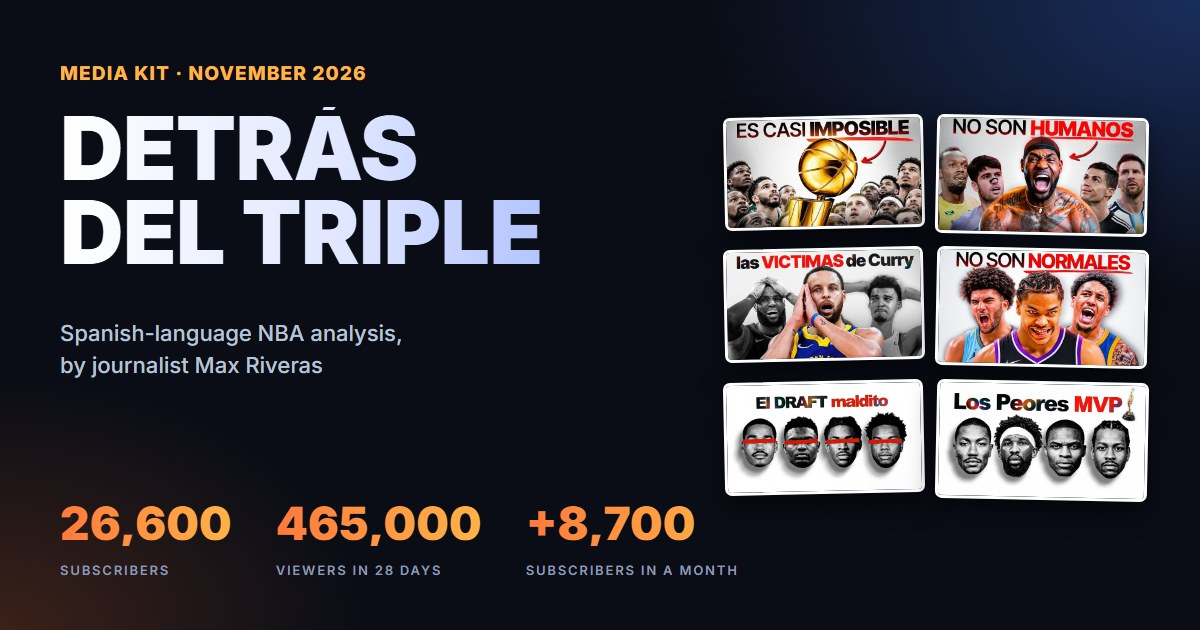
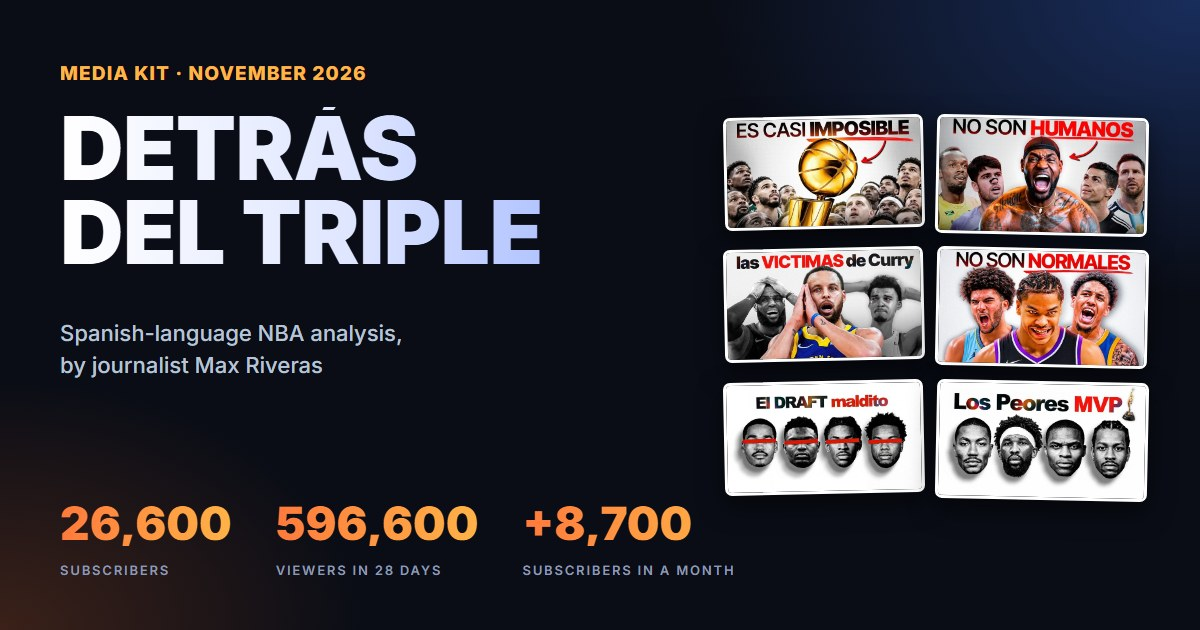
chore(mediakit): panel del 24 nov, 596.600 personas en 28 dias, 287.000 que repiten y perfil al dia

Changed region(s): [[0.4317, 0.7841, 0.6167, 0.9349], [0.2158, 0.7841, 0.4008, 0.8746]]

diff --git a/mediakit-definitivo/index.html b/mediakit-definitivo/index.html
@@ -5,7 +5,7 @@
     <meta charset="UTF-8">
     <meta name="viewport" content="width=device-width, initial-scale=1.0">
     <meta name="description"
-        content="Media kit de Detrás del Triple, análisis periodístico de la NBA en español por Max Riveras. En YouTube: 26.600 suscriptores, 465.000 personas distintas en 28 días y 245.409 horas vistas desde octubre de 2025. El 95,8% de las vistas de los vídeos largos llega desde 21 países de habla hispana.">
+        content="Media kit de Detrás del Triple, análisis periodístico de la NBA en español por Max Riveras. En YouTube: 26.600 suscriptores, 596.600 personas distintas en 28 días y 245.409 horas vistas desde octubre de 2025. El 95,8% de las vistas de los vídeos largos llega desde 21 países de habla hispana.">
     <meta name="keywords"
         content="NBA, creador de contenido, YouTube, influencer deportivo, Max Riveras, Detrásdeltriple, patrocinios">
     <meta name="author" content="Max Riveras">
@@ -21,11 +21,11 @@
     <meta property="og:url" content="https://maxriveras.com/mediakit-definitivo/">
     <meta property="og:title" content="Detrás del Triple · Media kit | Análisis NBA en español">
     <meta property="og:description"
-        content="Análisis NBA en español: 465.000 personas en 28 días, 245.409 horas vistas en YouTube desde octubre de 2025 y +8.700 suscriptores en un mes. Abierto a colaboraciones con marcas.">
+        content="Análisis NBA en español: 596.600 personas en 28 días, 245.409 horas vistas en YouTube desde octubre de 2025 y +8.700 suscriptores en un mes. Abierto a colaboraciones con marcas.">
     <meta property="og:image" content="https://maxriveras.com/mediakit-definitivo/fotos/og-mediakit.jpg">
     <meta property="og:image:width" content="1200">
     <meta property="og:image:height" content="630">
-    <meta property="og:image:alt" content="Detrás del Triple, media kit de noviembre de 2026: 26.600 suscriptores, 465.000 personas en 28 días y +8.700 suscriptores en un mes">
+    <meta property="og:image:alt" content="Detrás del Triple, media kit de noviembre de 2026: 26.600 suscriptores, 596.600 personas en 28 días y +8.700 suscriptores en un mes">
     <meta property="og:locale" content="es_ES">
     <meta property="og:locale:alternate" content="en_US">
 
@@ -37,7 +37,7 @@
     <meta property="twitter:card" content="summary_large_image">
     <meta property="twitter:url" content="https://maxriveras.com/mediakit-definitivo/">
     <meta property="twitter:title" content="Detrás del Triple · Media kit | Análisis NBA en español">
-    <meta property="twitter:description" content="Análisis NBA en español: 465.000 personas en 28 días y 245.409 horas vistas en YouTube desde octubre de 2025.">
+    <meta property="twitter:description" content="Análisis NBA en español: 596.600 personas en 28 días y 245.409 horas vistas en YouTube desde octubre de 2025.">
     <meta property="twitter:image" content="https://maxriveras.com/mediakit-definitivo/fotos/og-mediakit.jpg">
 
     <title>Detrás del Triple · Media kit | Análisis NBA en español por Max Riveras</title>
@@ -67,7 +67,7 @@
                         historia, para una audiencia que no pasa de largo.
                     </p>
                     <p class="hero-momentum">Y en plena subida: <strong>+8.700 suscriptores</strong> en un mes,
-                        <strong>465.000 personas</strong> en 28 días (casi el triple que hace un mes) y un vídeo con
+                        <strong>596.600 personas</strong> en 28 días (más del triple que hace tres semanas) y un vídeo con
                         <strong>más de 400.000 vistas</strong> en sus dos primeras semanas.</p>
                     <p class="hero-also">Y además, reels y shorts propios en Instagram, TikTok y Facebook.</p>
                     <div class="hero-buttons">
@@ -114,13 +114,13 @@
                     <span class="scope scope--yt">YouTube · 24 nov 2026</span>
                 </div>
                 <div class="metric-bar-item">
-                    <div class="metric-bar-value">465.000</div>
+                    <div class="metric-bar-value">596.600</div>
                     <div class="metric-bar-label">Personas distintas</div>
-                    <div class="metric-bar-delta">Casi el triple que hace un mes</div>
+                    <div class="metric-bar-delta">Más del triple que hace tres semanas</div>
                     <span class="scope scope--yt">YouTube · últimos 28 días</span>
                 </div>
                 <div class="metric-bar-item">
-                    <div class="metric-bar-value">214.000</div>
+                    <div class="metric-bar-value">287.000</div>
                     <div class="metric-bar-label">Espectadores que repiten</div>
                     <span class="scope scope--yt">YouTube · últimos 28 días</span>
                 </div>
@@ -271,11 +271,11 @@
                     <h3 class="card-title">Quién te va a ver</h3>
                     <span class="scope scope--yt">YouTube · últimos 28 días</span>
                     <ul class="card-list">
-                        <li><strong>91,8% hombres</strong> fans de la NBA</li>
-                        <li><strong>69,4% entre 25 y 54 años</strong></li>
-                        <li>36,9% entre 25 y 34 años</li>
-                        <li><strong>38,7% en el 20% de hogares con más renta</strong>: casi el doble de su peso en la población</li>
-                        <li>71,1% sin hijos</li>
+                        <li><strong>91,9% hombres</strong> fans de la NBA</li>
+                        <li><strong>69,5% entre 25 y 54 años</strong></li>
+                        <li>38% entre 25 y 34 años</li>
+                        <li><strong>38,4% en el 20% de hogares con más renta</strong>: casi el doble de su peso en la población</li>
+                        <li>81,8% sin hijos</li>
                     </ul>
                 </div>
                 <div class="card">
@@ -368,14 +368,14 @@
                 <div class="why-card">
                     <div class="why-icon">🚀</div>
                     <h3 class="why-title">Alcance muy por encima del tamaño</h3>
-                    <p class="why-description">26.600 suscriptores, pero <strong>465.000 personas distintas en 28
-                            días</strong>: 17 veces la base y casi el triple que hace un mes. Y el <strong>95,8% de las vistas de los vídeos
+                    <p class="why-description">26.600 suscriptores, pero <strong>596.600 personas distintas en 28
+                            días</strong>: 22 veces la base y más del triple que hace tres semanas. Y el <strong>95,8% de las vistas de los vídeos
                             largos</strong> llega desde 21 países de habla hispana, con México a la cabeza (24,4%).</p>
                 </div>
                 <div class="why-card">
                     <div class="why-icon">🔁</div>
                     <h3 class="why-title">Una audiencia que vuelve y se queda</h3>
-                    <p class="why-description"><strong>Más de 214.000 personas repiten</strong> en 28 días y aguantan el
+                    <p class="why-description"><strong>Más de 287.000 personas repiten</strong> en 28 días y aguantan el
                         formato largo: <strong>43,4% de retención media</strong> por vídeo, con un récord de 54,7%. Tu campaña
                         llega a la misma gente vídeo tras vídeo, y una mención de hasta 60 segundos cae dentro de lo
                         que ya está viendo.</p>
@@ -383,10 +383,10 @@
                 <div class="why-card">
                     <div class="why-icon">🎯</div>
                     <h3 class="why-title">Un perfil con capacidad de compra</h3>
-                    <p class="why-description">91,8% hombres, <strong>69,4% entre 25 y 54 años</strong> y el
-                        <strong>38,7% en el 20% de hogares con más renta</strong>: casi el doble de su peso en la
-                        población. Según YouTube, con un interés muy alto en baloncesto, en videojuegos de deportes y
-                        de acción, en deportes de lucha y combate y en música latina.</p>
+                    <p class="why-description">91,9% hombres, <strong>69,5% entre 25 y 54 años</strong> y el
+                        <strong>38,4% en el 20% de hogares con más renta</strong>: casi el doble de su peso en la
+                        población. Según YouTube, con un interés muy alto en baloncesto y en videojuegos de deportes, de acción y de
+                        coches y carreras.</p>
                 </div>
                 <div class="why-card">
                     <div class="why-icon">🎙</div>
@@ -475,9 +475,9 @@
                 </div>
             </div>
             <div class="footer-bottom">
-                <p>© 2026 Max Riveras. Cifras de YouTube actualizadas a 24 de noviembre de 2026; personas distintas y espectadores que repiten, del resumen del canal de YouTube Studio a 16 de noviembre de 2026; el
-                    perfil, del panel Kit de medios de YouTube Studio a 10 de noviembre de 2026 (y a 13 de octubre, para la comparación
-                    con hace un mes); suscriptores ganados, del contador público de YouTube. Fuentes: YouTube Studio y YouTube
+                <p>© 2026 Max Riveras. Cifras de YouTube actualizadas a 24 de noviembre de 2026; personas distintas, espectadores que repiten y
+                    perfil, del panel Kit de medios de YouTube Studio a 24 de noviembre de 2026 (y a 2 de noviembre, para la comparación
+                    con hace tres semanas); suscriptores ganados, del contador público de YouTube. Fuentes: YouTube Studio y YouTube
                     Analytics; Instagram, TikTok y Facebook, según sus paneles.</p>
             </div>
         </div>

diff --git a/mediakit-definitivo/en/index.html b/mediakit-definitivo/en/index.html
@@ -5,7 +5,7 @@
     <meta charset="UTF-8">
     <meta name="viewport" content="width=device-width, initial-scale=1.0">
     <meta name="description"
-        content="Media kit for Detrás del Triple, Spanish-language NBA analysis by journalist Max Riveras. On YouTube: 26,600 subscribers, 465,000 unique viewers in 28 days and 245,409 hours watched since October 2025. 95.8% of long-form views come from 21 Spanish-speaking countries.">
+        content="Media kit for Detrás del Triple, Spanish-language NBA analysis by journalist Max Riveras. On YouTube: 26,600 subscribers, 596,600 unique viewers in 28 days and 245,409 hours watched since October 2025. 95.8% of long-form views come from 21 Spanish-speaking countries.">
     <meta name="keywords"
         content="NBA, content creator, YouTube, Spanish-language, sports creator, Max Riveras, Detrás del Triple, sponsorships, Latin America">
     <meta name="author" content="Max Riveras">
@@ -21,11 +21,11 @@
     <meta property="og:url" content="https://maxriveras.com/mediakit-definitivo/en/">
     <meta property="og:title" content="Detrás del Triple · Media kit | Spanish-language NBA analysis">
     <meta property="og:description"
-        content="Spanish-language NBA analysis: 465,000 unique viewers in 28 days, 245,409 hours watched on YouTube since October 2025 and +8,700 subscribers in a month. Open to brand partnerships.">
+        content="Spanish-language NBA analysis: 596,600 unique viewers in 28 days, 245,409 hours watched on YouTube since October 2025 and +8,700 subscribers in a month. Open to brand partnerships.">
     <meta property="og:image" content="https://maxriveras.com/mediakit-definitivo/fotos/og-mediakit-en.jpg">
     <meta property="og:image:width" content="1200">
     <meta property="og:image:height" content="630">
-    <meta property="og:image:alt" content="Detrás del Triple media kit, November 2026: 26,600 subscribers, 465,000 unique viewers in 28 days and +8,700 subscribers in a month">
+    <meta property="og:image:alt" content="Detrás del Triple media kit, November 2026: 26,600 subscribers, 596,600 unique viewers in 28 days and +8,700 subscribers in a month">
     <meta property="og:locale" content="en_US">
     <meta property="og:locale:alternate" content="es_ES">
 
@@ -37,7 +37,7 @@
     <meta property="twitter:card" content="summary_large_image">
     <meta property="twitter:url" content="https://maxriveras.com/mediakit-definitivo/en/">
     <meta property="twitter:title" content="Detrás del Triple · Media kit | Spanish-language NBA analysis">
-    <meta property="twitter:description" content="Spanish-language NBA analysis: 465,000 unique viewers in 28 days and 245,409 hours watched on YouTube since October 2025.">
+    <meta property="twitter:description" content="Spanish-language NBA analysis: 596,600 unique viewers in 28 days and 245,409 hours watched on YouTube since October 2025.">
     <meta property="twitter:image" content="https://maxriveras.com/mediakit-definitivo/fotos/og-mediakit-en.jpg">
 
     <title>Detrás del Triple · Media kit | Spanish-language NBA analysis by Max Riveras</title>
@@ -67,7 +67,7 @@
                         storytelling, for an audience that doesn't scroll past.
                     </p>
                     <p class="hero-momentum">And growing fast: <strong>+8,700 subscribers</strong> in one month,
-                        <strong>465,000 unique viewers</strong> in 28 days (almost triple a month earlier) and a video with
+                        <strong>596,600 unique viewers</strong> in 28 days (more than triple three weeks earlier) and a video with
                         <strong>over 400,000 views</strong> in its first two weeks.</p>
                     <p class="hero-also">Plus original Reels and Shorts on Instagram, TikTok and Facebook.</p>
                     <div class="hero-buttons">
@@ -114,13 +114,13 @@
                     <span class="scope scope--yt">YouTube · Nov 24, 2026</span>
                 </div>
                 <div class="metric-bar-item">
-                    <div class="metric-bar-value">465,000</div>
+                    <div class="metric-bar-value">596,600</div>
                     <div class="metric-bar-label">Unique viewers</div>
-                    <div class="metric-bar-delta">Almost triple a month earlier</div>
+                    <div class="metric-bar-delta">More than triple three weeks earlier</div>
                     <span class="scope scope--yt">YouTube · last 28 days</span>
                 </div>
                 <div class="metric-bar-item">
-                    <div class="metric-bar-value">214,000</div>
+                    <div class="metric-bar-value">287,000</div>
                     <div class="metric-bar-label">Returning viewers</div>
                     <span class="scope scope--yt">YouTube · last 28 days</span>
                 </div>
@@ -271,11 +271,11 @@
                     <h3 class="card-title">Who will see you</h3>
                     <span class="scope scope--yt">YouTube · last 28 days</span>
                     <ul class="card-list">
-                        <li><strong>91.8% men</strong>, NBA fans</li>
-                        <li><strong>69.4% aged 25 to 54</strong></li>
-                        <li>36.9% aged 25 to 34</li>
-                        <li><strong>38.7% in the top 20% of households by income</strong>: almost twice their share of the population</li>
-                        <li>71.1% without children</li>
+                        <li><strong>91.9% men</strong>, NBA fans</li>
+                        <li><strong>69.5% aged 25 to 54</strong></li>
+                        <li>38% aged 25 to 34</li>
+                        <li><strong>38.4% in the top 20% of households by income</strong>: almost twice their share of the population</li>
+                        <li>81.8% without children</li>
                     </ul>
                 </div>
                 <div class="card">
@@ -368,14 +368,14 @@
                 <div class="why-card">
                     <div class="why-icon">🚀</div>
                     <h3 class="why-title">Reach well beyond its size</h3>
-                    <p class="why-description">26,600 subscribers, but <strong>465,000 unique viewers in 28
-                            days</strong>: 17 times the subscriber base, and almost triple a month earlier. And <strong>95.8% of long-form
+                    <p class="why-description">26,600 subscribers, but <strong>596,600 unique viewers in 28
+                            days</strong>: 22 times the subscriber base, and more than triple three weeks earlier. And <strong>95.8% of long-form
                             views</strong> come from 21 Spanish-speaking countries, led by Mexico (24.4%).</p>
                 </div>
                 <div class="why-card">
                     <div class="why-icon">🔁</div>
                     <h3 class="why-title">An audience that comes back and stays</h3>
-                    <p class="why-description"><strong>Over 214,000 returning viewers</strong> in 28 days, and they stick
+                    <p class="why-description"><strong>Over 287,000 returning viewers</strong> in 28 days, and they stick
                         with long-form: <strong>43.4% average retention</strong> per video, with a record of 54.7%. Your campaign
                         reaches the same people video after video, and an integration of up to 60 seconds lands inside what
                         they're already watching.</p>
@@ -383,10 +383,10 @@
                 <div class="why-card">
                     <div class="why-icon">🎯</div>
                     <h3 class="why-title">An audience with buying power</h3>
-                    <p class="why-description">91.8% men, <strong>69.4% aged 25 to 54</strong> and
-                        <strong>38.7% in the top 20% of households by income</strong>: almost twice their share of the
-                        population. According to YouTube, with a very high interest in basketball, in sports and action
-                        video games, in combat sports and in Latin music.</p>
+                    <p class="why-description">91.9% men, <strong>69.5% aged 25 to 54</strong> and
+                        <strong>38.4% in the top 20% of households by income</strong>: almost twice their share of the
+                        population. According to YouTube, with a very high interest in basketball and in sports, action
+                        and racing video games.</p>
                 </div>
                 <div class="why-card">
                     <div class="why-icon">🎙</div>
@@ -475,8 +475,8 @@
                 </div>
             </div>
             <div class="footer-bottom">
-                <p>© 2026 Max Riveras. YouTube figures updated as of November 24, 2026; unique viewers and returning viewers from the YouTube Studio channel overview as of November 16, 2026; audience profile
-                    from the YouTube Studio Media Kit panel as of November 10, 2026 (and October 13, for the month-earlier comparison);
+                <p>© 2026 Max Riveras. YouTube figures updated as of November 24, 2026; unique viewers, returning viewers and audience profile
+                    from the YouTube Studio Media Kit panel as of November 24, 2026 (and November 2, for the three-weeks-earlier comparison);
                     subscribers gained, from YouTube's public counter. Sources: YouTube Studio and YouTube
                     Analytics; Instagram, TikTok and Facebook, from their own dashboards.</p>
             </div>
